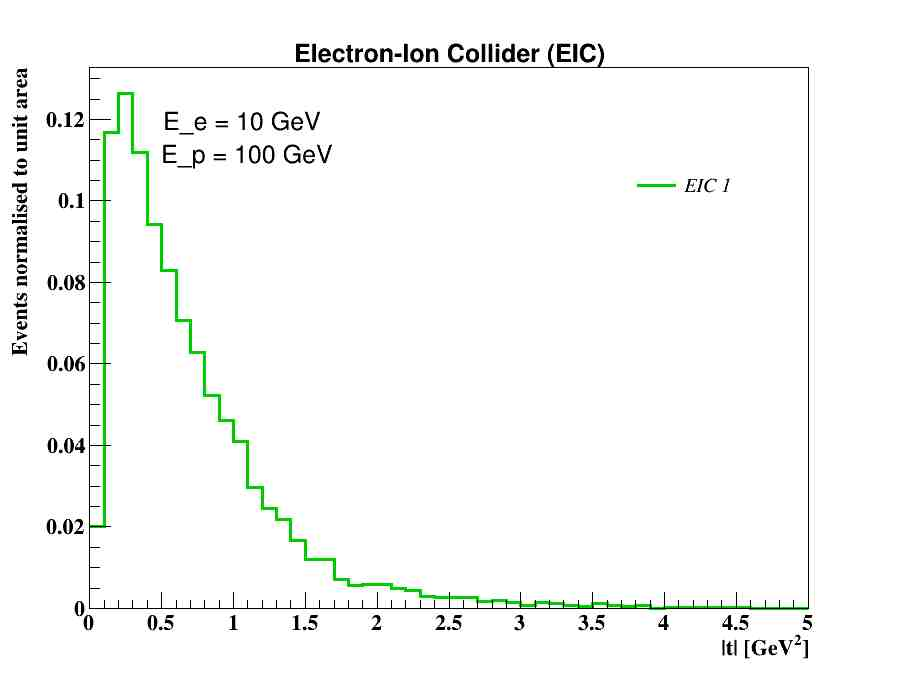
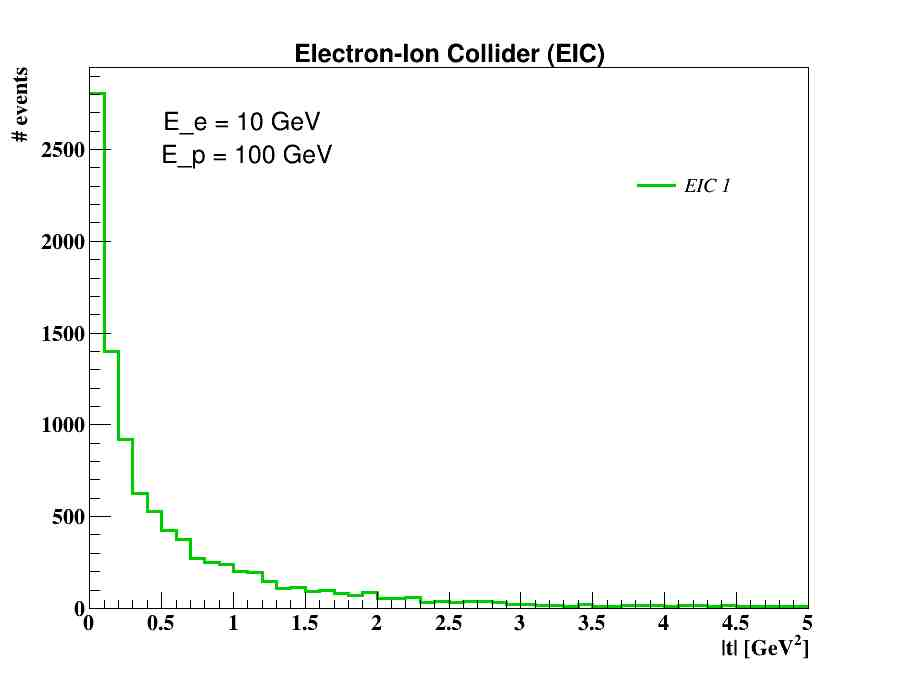
Plots

Changed region(s): [[0.0, 0.0932, 0.9042, 0.932], [0.0624, 0.2796, 0.1247, 0.3107]]

diff --git a/epic_out_file.C b/epic_out_file.C
@@ -235,11 +235,13 @@ void epic_out_file::Loop()
       
       
       t = Protonout - Protonin;
-      tvalue = t.P();
+      tvalue = t.P() * t.P();
       
       cout << "tvalue  = "  << tvalue   << endl;             
       
 
+//      weight = sigma * L / nentries;
+      
      histMassdilepton->Fill(Mll);      
      histPtdilepton->Fill(Ptll);    
      histtvalue->Fill(tvalue);    
@@ -249,11 +251,7 @@ void epic_out_file::Loop()
    
    
    
-   
-   
-   
-   
-   
+
 // **********************************************************************   
 // Show resulting histograms
 
@@ -393,7 +391,7 @@ histtvalue->GetXaxis()->SetTitle("|t| [GeV^{2}]");
 //histtvalue->GetXaxis()->SetTitleOffset(1.25);
 histtvalue->GetXaxis()->SetLabelFont(22);
 histtvalue->GetXaxis()->SetTitleFont(22);
-histtvalue->GetYaxis()->SetTitle("Events normalised to unit area");
+histtvalue->GetYaxis()->SetTitle("# Events");
 histtvalue->GetYaxis()->SetTitleOffset(1.40);
 histtvalue->GetYaxis()->SetLabelFont(22);
 histtvalue->GetYaxis()->SetTitleFont(22);
@@ -406,7 +404,7 @@ histtvalue->GetYaxis()->SetTitleFont(22);
     histtvalue->SetLineWidth(3);
     histtvalue->SetLineColor(kGreen+1);
     
-    histtvalue->DrawNormalized("hist");
+    histtvalue->Draw("hist");
 
  leg->Draw("same");
  t2a->Draw("same");
@@ -421,8 +419,6 @@ c3->SaveAs("tvalue.eps");
 c3->SaveAs("tvalue.jpg");      
   
 
-
-   
 } // The end
 
 
